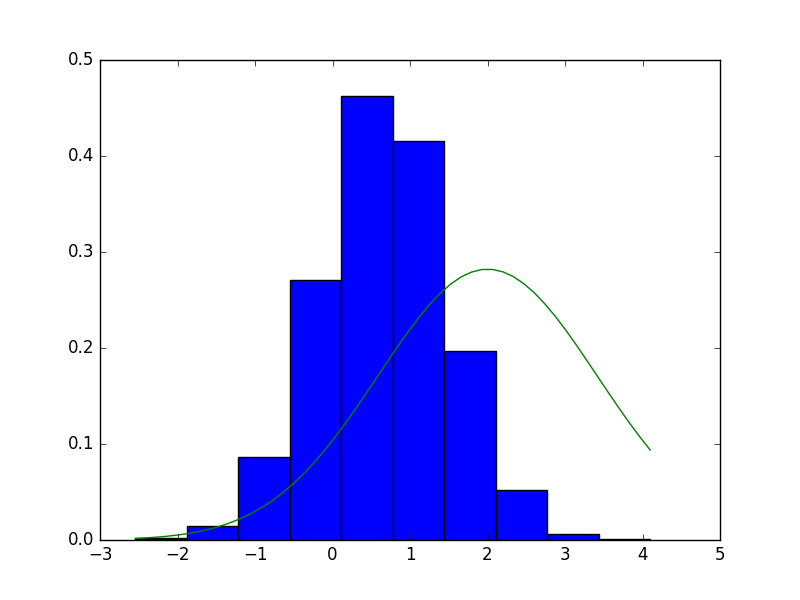
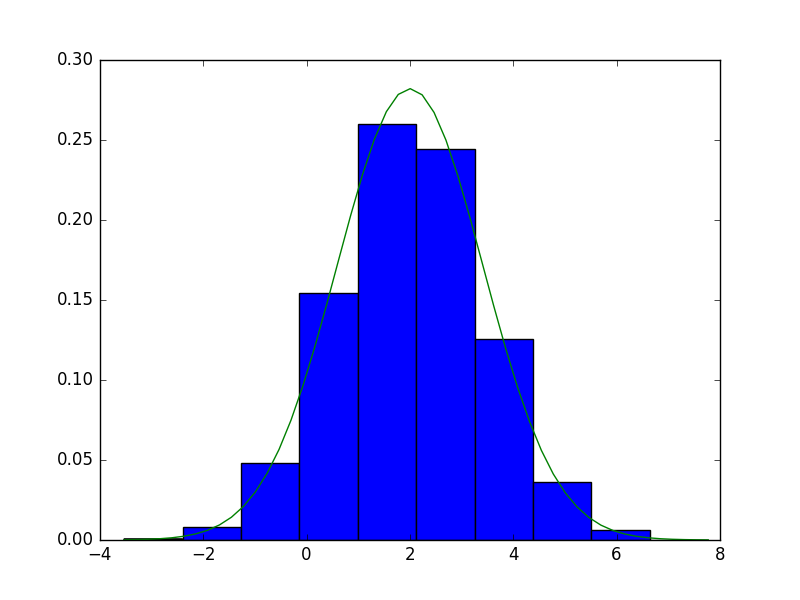
Now it works but I had to cheat and look at https://github.com/LocalGroupAstrostatistics2015/MCMC/blob/master/MCMC%20tutorial%20(solutions).ipynb

diff --git a/Problem_2.py b/Problem_2.py
@@ -5,7 +5,7 @@ def gaussian_density(x,mu,sigma):
     return exp(-(x-mu)**2/(2*sigma**2))/(sigma*sqrt(2*pi))
 
 def next_sample(f,q,theta_k):
-    theta_prime = q(0,1)
+    theta_prime = q(theta_k,1)
 
     r = random.random()
 
